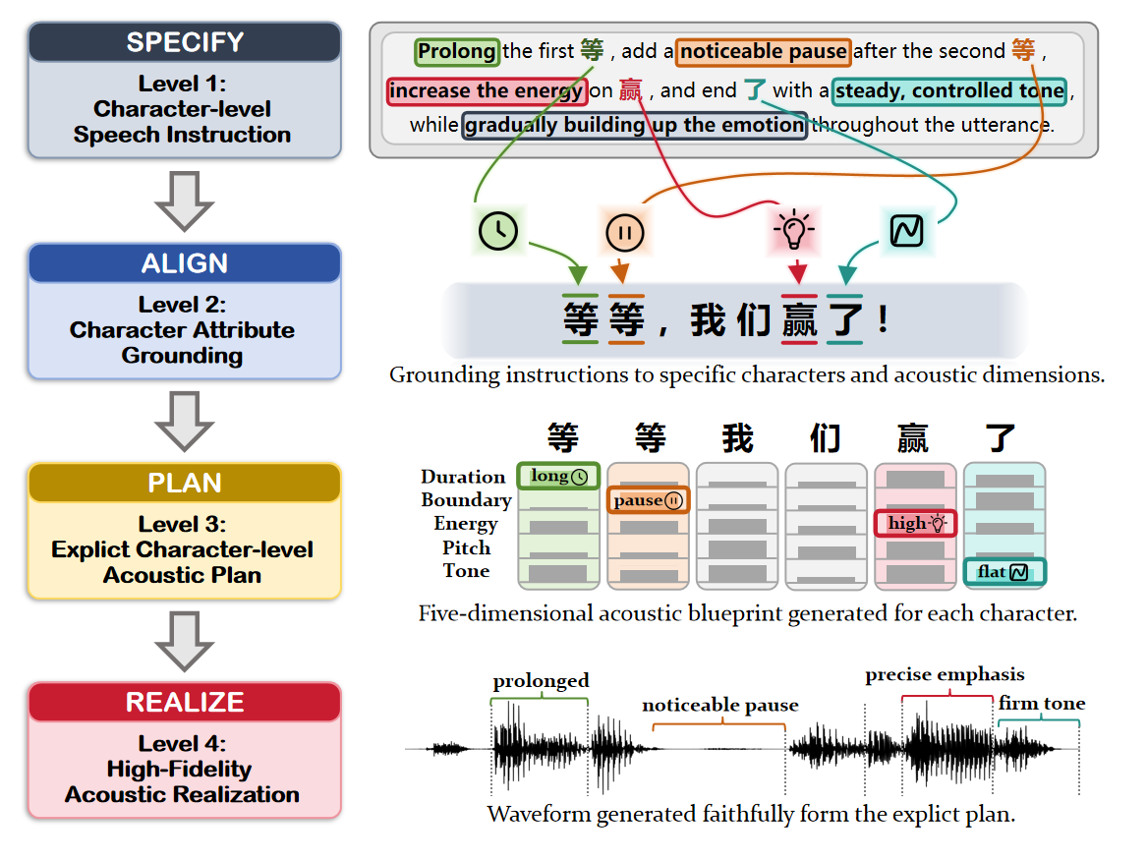
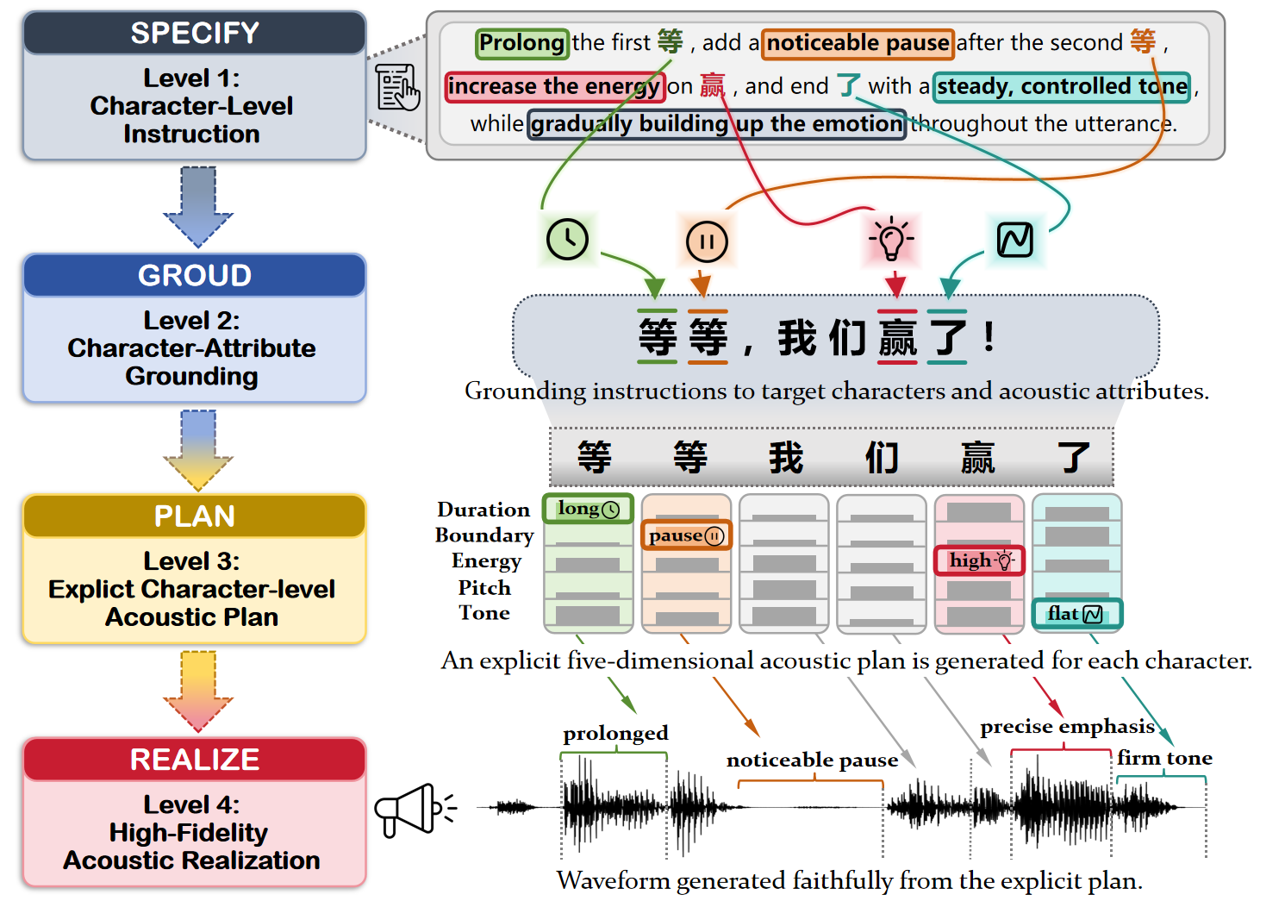
Update demo page

diff --git a/index.html b/index.html
@@ -4,7 +4,7 @@
   <meta charset="UTF-8">
   <meta name="viewport" content="width=device-width, initial-scale=1.0">
 
-  <title>InstructWordVoice — Audio Demo</title>
+  <title>InstCharVoice — Audio Demo</title>
 
   <style>
     :root {
@@ -335,9 +335,15 @@
 
     .metadata-grid {
       display: grid;
-      grid-template-columns: minmax(0, 1.4fr) minmax(280px, 0.8fr);
+      grid-template-columns: minmax(280px, 0.8fr) minmax(0, 1.4fr);
+      grid-template-rows: auto auto;
       gap: 16px;
       margin: 20px 0;
+    }
+
+    .metadata-grid .instruction-panel {
+      grid-column: 2;
+      grid-row: 1 / span 2;
     }
 
     .text-panel {
@@ -583,10 +589,6 @@
         top: 5px;
       }
 
-      .metadata-grid {
-        grid-template-columns: 1fr;
-      }
-
       .sample-summary,
       .sample-content {
         padding-left: 15px;
@@ -622,7 +624,7 @@
     <div class="conference">ICASSP AUDIO DEMO</div>
 
     <h1>
-      <span>InstructWordVoice</span>: Keyword-Aware
+      <span>InstCharVoice</span>: Keyword-Aware
       Character-Level Instruction TTS
     </h1>
 
@@ -632,15 +634,7 @@
 
     <p class="subtitle abstract">
       <strong>Abstract —</strong>
-      We present InstructWordVoice, a keyword-aware character-level instruction
-      text-to-speech framework for fine-grained and interpretable speech synthesis.
-      The proposed method grounds natural-language instructions into target Chinese
-      characters and explicit acoustic attributes, including pitch, energy,
-      duration, tone, and boundary. By performing character-level acoustic planning,
-      InstructWordVoice enables precise local prosody control while preserving
-      speaker identity and overall speech naturalness. The audio samples below
-      demonstrate its ability to follow detailed instructions and highlight its
-      advantages over existing baseline systems.
+      xxx
     </p>
 
     <div class="pipeline" aria-label="Method overview">
@@ -660,24 +654,24 @@
         <figure class="paper-figure">
           <img
             src="assert/mot.png"
-            alt="InstructWordVoice motivation and method illustration"
+            alt="motivation"
             loading="lazy"
             style="display: block; width: 50%; height: auto; margin: 0 auto;"
           >
           <figcaption>
-            Motivation and character-level acoustic control
+            Overview of InstCharVoice. Given natural-language instructions and input text, the framework grounds each local control request to its target characters and acoustic attributes, predicts an explicit five-dimensional character-level acoustic plan, and conditions speech generation on the predicted plan.
           </figcaption>
         </figure>
 
         <figure class="paper-figure">
           <img
             src="assert/wordvoice.png"
-            alt="InstructWordVoice LLM-based framework illustration"
+            alt="llm"
             loading="lazy"
             style="display: block; width: 60%; height: auto; margin: 0 auto;"
           >
           <figcaption>
-            LLM-based instruction grounding framework
+            Model architecture of InstCharVoice, including (a) character-level sequence construction, (b) autoregressive prediction of grounding labels, acoustic attributes, and speech tokens, and (c) the grounding-aware training objective.
           </figcaption>
         </figure>
       </section>
@@ -715,7 +709,7 @@
         {"key":"cosyvoice3","name":"CosyVoice3","folder":"cosyvoice3","tag":"Baseline","description":"对比模型"},
         {"key":"firered","name":"FireRedTTS","folder":"firered","tag":"Baseline","description":"对比模型"},
         {"key":"qwen3","name":"Qwen3-TTS","folder":"qwen3","tag":"Baseline","description":"对比模型"},
-        {"key":"instwordvoice","name":"InstructWordVoice","folder":"instwordvoice","tag":"Ours","description":"关键词感知的字级指令语音合成"}],
+        {"key":"instwordvoice","name":"InstCharVoice","folder":"instwordvoice","tag":"Ours","description":"关键词感知的字级指令语音合成"}],
       "samples":[
         {"id":0,"instruct":"语速平稳，音调渐趋低沉，在“我”字处能量突增，语气由缓转急，表达出信息传递的紧迫感。","en_instruct":"Maintain a steady speaking rate with a gradually lowering pitch. Sharply increase the energy on “我”, then shift from an unhurried to an urgent delivery to convey the urgency of delivering the information.","text":"技术测试中心的谷主任和毛主任亲自带队，刚刚做完勘察，我赶紧答道。","ref_text":"你这个周末回来有点早。","targets":[{"text":"我","text_occurrence":1,"instruction_occurrence":1,"attributes":["Energy"]}],"audio":{"ref":{"src":"_demo_mp3/ref/0.mp3","exists":true},"cosyvoice3":{"src":"_demo_mp3/cosyvoice3/0.mp3","exists":true},"firered":{"src":"_demo_mp3/firered/0.mp3","exists":true},"qwen3":{"src":"_demo_mp3/qwen3/0.mp3","exists":true},"instwordvoice":{"src":"_demo_mp3/instwordvoice/0.mp3","exists":true}}},
         {"id":1,"instruct":"语速有明显停顿与节奏变化，在“说”字处能量骤升，音高上扬，随后在“带”字处音高骤降，语气转为低沉，整体节奏松紧交替，句尾收束干脆。","en_instruct":"Use noticeable pauses and rhythmic variations. Sharply increase the energy and raise the pitch on “说”, then abruptly lower the pitch on “带” and shift to a deeper tone. Alternate between tighter and more relaxed pacing throughout, and end the sentence with a crisp closure.","text":"要吃什么的时候，我都会对他们说没有人，必须要带你去玩。","ref_text":"当然呢有的朋友呢也是在不断的成长。","targets":[{"text":"说","text_occurrence":1,"instruction_occurrence":1,"attributes":["Energy","Pitch"]},{"text":"带","text_occurrence":1,"instruction_occurrence":1,"attributes":["Pitch"]}],"audio":{"ref":{"src":"_demo_mp3/ref/1.mp3","exists":true},"cosyvoice3":{"src":"_demo_mp3/cosyvoice3/1.mp3","exists":true},"firered":{"src":"_demo_mp3/firered/1.mp3","exists":true},"qwen3":{"src":"_demo_mp3/qwen3/1.mp3","exists":true},"instwordvoice":{"src":"_demo_mp3/instwordvoice/1.mp3","exists":true}}},
@@ -1218,28 +1212,29 @@
         textRanges
       );
 
-      const refWrapper = document.createElement("div");
-      refWrapper.className = "reference-text";
+      const referencePanel = document.createElement("div");
+      referencePanel.className = "text-panel reference-panel";
 
-      const refLabel = document.createElement("div");
-      refLabel.className = "panel-label";
-      refLabel.textContent = "Reference Text";
+      const referenceLabel = document.createElement("div");
+      referenceLabel.className = "panel-label";
+      referenceLabel.textContent = "Reference Text";
 
-      const refText = document.createElement("p");
-      refText.className = "panel-text";
-      refText.textContent = sample.ref_text || "—";
+      const referenceText = document.createElement("p");
+      referenceText.className = "panel-text";
+      referenceText.textContent = sample.ref_text || "—";
 
-      const refNote = document.createElement("p");
-      refNote.className = "reference-note";
-      refNote.textContent = "Reference audio is used as the zero-shot speaker prompt.";
+      const referenceNote = document.createElement("p");
+      referenceNote.className = "reference-note";
+      referenceNote.textContent =
+        "Reference audio is used as the zero-shot speaker prompt.";
 
-      refWrapper.appendChild(refLabel);
-      refWrapper.appendChild(refText);
-      refWrapper.appendChild(refNote);
-      targetPanel.panel.appendChild(refWrapper);
+      referencePanel.appendChild(referenceLabel);
+      referencePanel.appendChild(referenceText);
+      referencePanel.appendChild(referenceNote);
 
-      metadata.appendChild(instructionPanel.panel);
+      metadata.appendChild(referencePanel);
       metadata.appendChild(targetPanel.panel);
+      metadata.appendChild(instructionPanel.panel);
       content.appendChild(metadata);
 
       const audioTitle = document.createElement("div");
